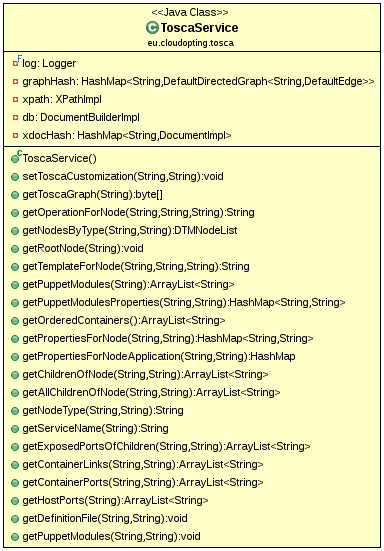
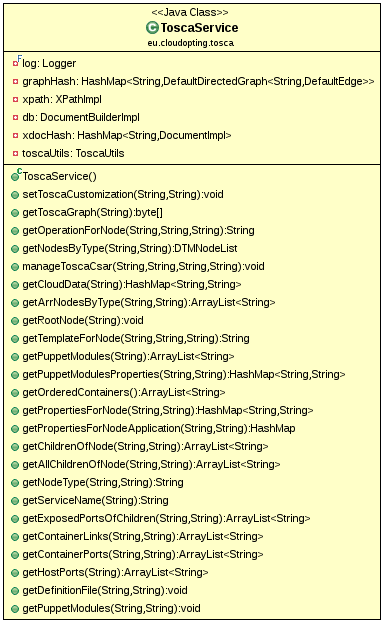
Refactoring

Changed region(s): [[0.0, 0.0617, 1.0, 1.0], [0.0312, 0.0, 0.9688, 0.0926]]

diff --git a/tosca-component/src/main/java/eu/cloudopting/tosca/utils/ToscaUtils.java b/tosca-component/src/main/java/eu/cloudopting/tosca/utils/ToscaUtils.java
@@ -3,16 +3,73 @@ package eu.cloudopting.tosca.utils;
 import java.io.BufferedOutputStream;
 import java.io.File;
 import java.io.FileInputStream;
+import java.io.FileNotFoundException;
 import java.io.FileOutputStream;
 import java.io.IOException;
+import java.io.OutputStreamWriter;
+import java.io.PrintWriter;
+import java.io.UnsupportedEncodingException;
+import java.util.HashMap;
 import java.util.zip.ZipEntry;
 import java.util.zip.ZipInputStream;
 
 import org.springframework.stereotype.Service;
 
+import freemarker.core.ParseException;
+import freemarker.template.Configuration;
+import freemarker.template.MalformedTemplateNameException;
+import freemarker.template.Template;
+import freemarker.template.TemplateException;
+import freemarker.template.TemplateNotFoundException;
+
 @Service
 public class ToscaUtils {
 	private static final int BUFFER_SIZE = 4096;
+	
+	public void generatePuppetfile(HashMap<String, Object> templData, String serviceHome){
+		// write the "Puppetfile" file
+		Configuration cfg = new Configuration();
+		Template tpl = null;
+		try {
+			tpl = cfg.getTemplate("Puppetfile.ftl");
+		} catch (TemplateNotFoundException e) {
+			// TODO Auto-generated catch block
+			e.printStackTrace();
+		} catch (MalformedTemplateNameException e) {
+			// TODO Auto-generated catch block
+			e.printStackTrace();
+		} catch (ParseException e) {
+			// TODO Auto-generated catch block
+			e.printStackTrace();
+		} catch (IOException e) {
+			// TODO Auto-generated catch block
+			e.printStackTrace();
+		}
+
+		OutputStreamWriter outputTempl = new OutputStreamWriter(System.out);
+		PrintWriter outFile = null;
+		String puppetFile = new String("Puppetfile");
+		try {
+			outFile = new PrintWriter(serviceHome+"/"+puppetFile, "UTF-8");
+		} catch (FileNotFoundException e1) {
+			// TODO Auto-generated catch block
+			e1.printStackTrace();
+		} catch (UnsupportedEncodingException e1) {
+			// TODO Auto-generated catch block
+			e1.printStackTrace();
+		}
+		try {
+			//tpl.process(nodeData, outputTempl);
+			tpl.process(templData, outFile);
+		} catch (TemplateException e) {
+			// TODO Auto-generated catch block
+			e.printStackTrace();
+		} catch (IOException e) {
+			// TODO Auto-generated catch block
+			e.printStackTrace();
+		}
+
+	}
 	
 	public void unzip(String zipFilePath, String destDirectory) throws IOException {
         File destDir = new File(destDirectory);

diff --git a/tosca-component/src/main/java/eu/cloudopting/tosca/ToscaService.java b/tosca-component/src/main/java/eu/cloudopting/tosca/ToscaService.java
@@ -105,6 +105,20 @@ public class ToscaService {
 		
 	}
 	
+	public void generatePuppetfile(String customizationId,String serviceHome){
+		ArrayList<String> modules = getPuppetModules(customizationId);
+		ArrayList<HashMap<String, String>> modData = new ArrayList<HashMap<String, String>>();
+		for (String mod : modules) {
+			modData.add(getPuppetModulesProperties(customizationId, mod));
+			log.debug(mod);
+		}
+		log.debug(modData.toString());
+		
+		HashMap<String, Object> templData = new HashMap<String, Object>();
+		templData.put("modData", modData);
+		toscaUtils.generatePuppetfile(templData,serviceHome);
+	}
+	
 	/**
 	 * This method retrieve the tosca csar from the storage component and unzip it in the proper folder
 	 * 

diff --git a/bpmn-component/src/main/java/eu/cloudopting/bpmn/tasks/deploy/DeployGeneratePuppet.java b/bpmn-component/src/main/java/eu/cloudopting/bpmn/tasks/deploy/DeployGeneratePuppet.java
@@ -16,9 +16,10 @@ public class DeployGeneratePuppet implements JavaDelegate {
 	ToscaService toscaService;
 
 	@Override
-	public void execute(DelegateExecution arg0) throws Exception {
+	public void execute(DelegateExecution execution) throws Exception {
 		// TODO Auto-generated method stub
-		log.debug("in DeploySetup");
+		log.debug("in DeployGeneratePuppet");
+		String customizationId = (String) execution.getVariable("customizationId");
 //		toscaService.getNodeType("");
 		
 	}

diff --git a/bpmn-component/src/main/java/eu/cloudopting/bpmn/tasks/deploy/DeploySetup.java b/bpmn-component/src/main/java/eu/cloudopting/bpmn/tasks/deploy/DeploySetup.java
@@ -47,6 +47,8 @@ public class DeploySetup implements JavaDelegate {
 			}
 		}
 		
+		toscaService.generatePuppetfile(customizationId, serviceHome);
+		
 		ArrayList<String> dockerPortsList = toscaService.getHostPorts(customizationId);
 		dockerPortsList.add("Port1");
 		
